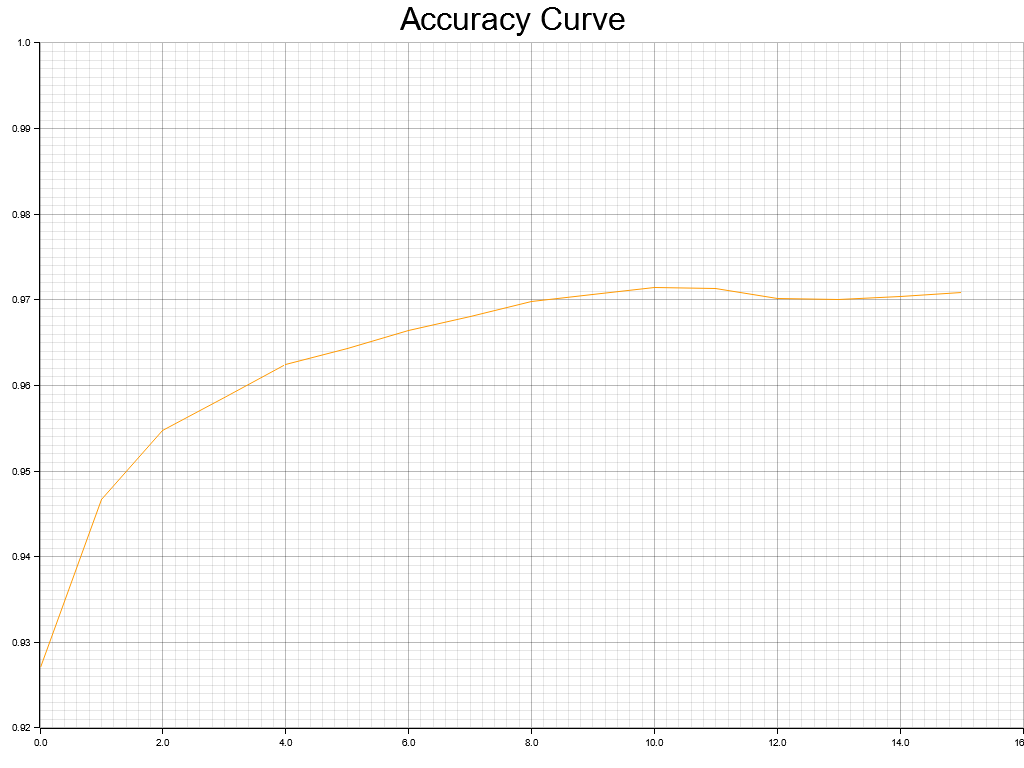
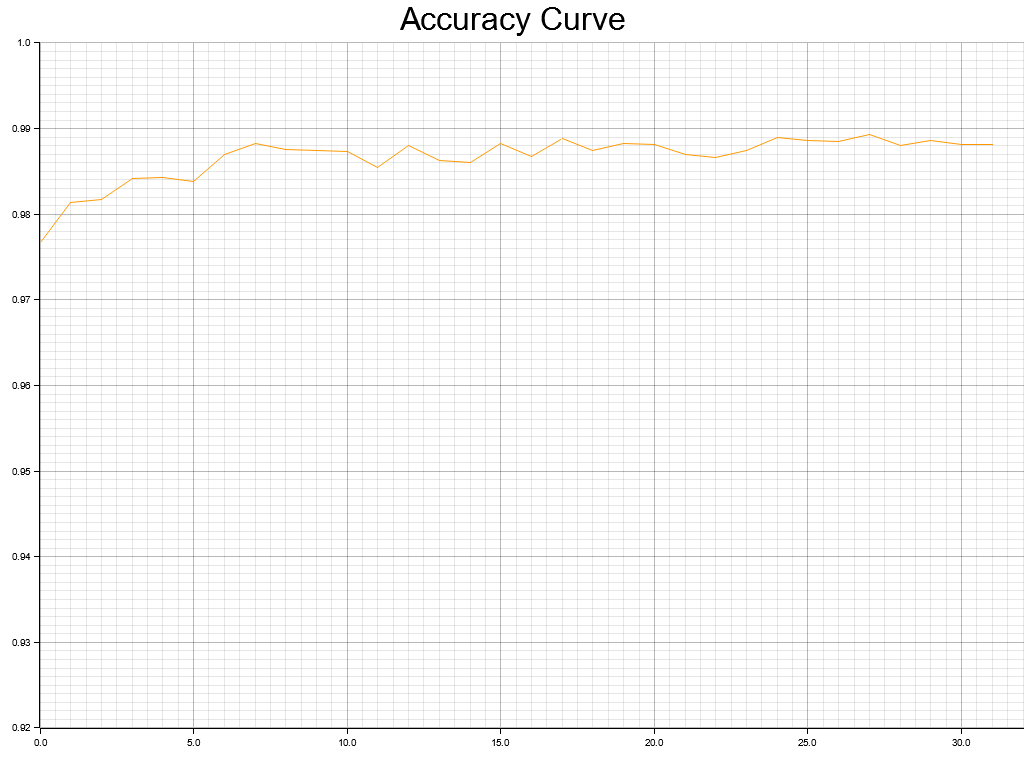
Implémentation des couches de convolution

diff --git a/src/layer.rs b/src/layer.rs
@@ -1,10 +1,6 @@
 use nalgebra::{DMatrix, DVector};
-use rand_distr::Normal;
 use rayon::prelude::*;
-
-const BETA_1: f32 = 0.9;
-const BETA_2: f32 = 0.999;
-const EPSILON: f32 = 10e-8;
+use crate::utils::*;
 
 pub trait Layer {
     fn forward_propagation(&mut self, input_batch: Vec<DVector<f32>>) -> Vec<DVector<f32>>;
@@ -25,7 +21,7 @@ pub struct Dense {
 impl Dense {
     pub fn new(input_size: usize, output_size: usize) -> Self {
         Dense {
-            weights: Self::he_init(input_size, output_size),
+            weights: he_init_dense(input_size, output_size),
             bias: DVector::<f32>::zeros(output_size),
 
             last_input_batch: vec![],
@@ -34,33 +30,6 @@ impl Dense {
             bias_first_moment: DVector::<f32>::zeros(output_size),
             bias_second_moment: DVector::<f32>::zeros(output_size),
         }
-    }
-
-    fn he_init(input_size: usize, output_size: usize) -> DMatrix<f32> {
-        let rng = &mut rand::thread_rng();
-        DMatrix::<f32>::from_distribution(
-            output_size, input_size,
-            &Normal::new(0.0, f32::sqrt(2.0 / input_size as f32)).unwrap(),
-            rng
-        )
-    }
-
-    fn adam_optimizer(&mut self, weights_gradient: DMatrix<f32>, bias_gradient: DVector<f32>, learning_rate: f32, iteration: i32) {
-        let weights_gradient_squared = weights_gradient.component_mul(&weights_gradient);
-        self.weight_first_moment = BETA_1 * self.weight_first_moment.clone() + (1.0 - BETA_1) * weights_gradient;
-        self.weight_second_moment = BETA_2 * self.weight_second_moment.clone() + (1.0 - BETA_2) * weights_gradient_squared;
-        let weight_corrected_first_moment = self.weight_first_moment.clone() / (1.0 - BETA_1.powi(iteration));
-        let weight_corrected_second_moment = self.weight_second_moment.clone() / (1.0 - BETA_2.powi(iteration));
-        let weight_denominator = weight_corrected_second_moment.map(|w| w.sqrt() + EPSILON);
-        self.weights -= learning_rate * weight_corrected_first_moment.component_div(&weight_denominator);
-
-        let bias_gradient_squared = bias_gradient.component_mul(&bias_gradient);
-        self.bias_first_moment = BETA_1 * self.bias_first_moment.clone() + (1.0 - BETA_1) * bias_gradient;
-        self.bias_second_moment = BETA_2 * self.bias_second_moment.clone() + (1.0 - BETA_2) * bias_gradient_squared;
-        let bias_corrected_first_moment = self.bias_first_moment.clone() / (1.0 - BETA_1.powi(iteration));
-        let bias_corrected_second_moment = self.bias_second_moment.clone() / (1.0 - BETA_2.powi(iteration));
-        let bias_denominator = bias_corrected_second_moment.map(|b| b.sqrt() + EPSILON);
-        self.bias -= learning_rate * bias_corrected_first_moment.component_div(&bias_denominator);
     }
 }
 
@@ -86,7 +55,211 @@ impl Layer for Dense {
         }).collect::<Vec<_>>().iter().sum::<DMatrix<f32>>() / m;
         let bias_gradient = factor_batch.iter().sum::<DVector<f32>>() / m;
 
-        self.adam_optimizer(weights_gradient, bias_gradient, learning_rate, iteration);
+        adam_optimizer_matrix(
+            &mut self.weights, weights_gradient, &mut self.weight_first_moment,
+            &mut self.weight_second_moment, learning_rate, iteration
+        );
+        adam_optimizer_vector(
+            &mut self.bias, bias_gradient, &mut self.bias_first_moment,
+            &mut self.bias_second_moment, learning_rate, iteration
+        );
+        back_factor_batch
+    }
+}
+
+pub struct Conv2D {
+    input_shape: (usize, usize, usize),
+    output_shape: (usize, usize, usize),
+    kernels: Vec<Vec<DMatrix<f32>>>,
+    bias: Vec<DMatrix<f32>>,
+
+    last_input_batch: Vec<Vec<DMatrix<f32>>>,
+    kernels_first_moment: Vec<Vec<DMatrix<f32>>>,
+    kernels_second_moment: Vec<Vec<DMatrix<f32>>>,
+    bias_first_moment: Vec<DMatrix<f32>>,
+    bias_second_moment: Vec<DMatrix<f32>>
+}
+
+impl Conv2D {
+    pub fn new(input_shape: (usize, usize, usize), kernels_shape: (usize, usize), output_features: usize) -> Self {
+        let mut kernels = vec![];
+        for _ in 0..output_features {
+            let mut kernels_weights = vec![];
+            for _ in 0..input_shape.0 {
+                kernels_weights.push(he_init_conv2d(kernels_shape.0, kernels_shape.1, input_shape.0));
+            }
+            kernels.push(kernels_weights);
+        }
+
+        let (n_rows, n_cols) = (input_shape.1 - kernels_shape.0 + 1, input_shape.2 - kernels_shape.1 + 1);
+        let bias = vec![DMatrix::<f32>::zeros(n_rows, n_cols); output_features];
+
+        Self {
+            input_shape,
+            output_shape: (output_features, n_rows, n_cols),
+            kernels,
+            bias,
+
+            last_input_batch: vec![],
+            kernels_first_moment: vec![vec![DMatrix::<f32>::zeros(kernels_shape.0, kernels_shape.1); input_shape.0]; output_features],
+            kernels_second_moment: vec![vec![DMatrix::<f32>::zeros(kernels_shape.0, kernels_shape.1); input_shape.0]; output_features],
+            bias_first_moment: vec![DMatrix::<f32>::zeros(n_rows, n_cols); output_features],
+            bias_second_moment: vec![DMatrix::<f32>::zeros(n_rows, n_cols); output_features]
+        }
+    }
+}
+
+impl Layer for Conv2D {
+    fn forward_propagation(&mut self, input_batch: Vec<DVector<f32>>) -> Vec<DVector<f32>> {
+        self.last_input_batch = input_batch.into_par_iter().map(|input| {
+            let length = self.input_shape.1 * self.input_shape.2;
+            (0..self.input_shape.0).map(|depth|
+                DMatrix::<f32>::from_column_slice(
+                    self.input_shape.1, self.input_shape.2,
+                    &input.as_slice()[(depth * length)..(depth * length + length)]
+                )
+            ).collect::<Vec<_>>()
+        }).collect();
+
+        let result_batch = self.last_input_batch.par_iter().map(|features| {
+            let (output_depth, n_rows, n_cols) = self.output_shape;
+            let mut result_data = vec![];
+            for depth in 0..output_depth {
+                let cross_correlation = features.iter().enumerate().map(|(k, feature)| {
+                    valid_cross_correlation(feature, &self.kernels[depth][k], n_rows, n_cols)
+                }).sum::<DMatrix<f32>>() + &self.bias[depth];
+                result_data.extend_from_slice(cross_correlation.as_slice());
+            }
+            DVector::<f32>::from(result_data)
+        }).collect();
+
+        result_batch
+    }
+
+    fn backward_propagation(&mut self, factor_batch: Vec<DVector<f32>>, learning_rate: f32, iteration: i32) -> Vec<DVector<f32>> {
+        let m = factor_batch.len() as f32;
+        let (output_depth, output_n_rows, output_n_cols) = self.output_shape;
+        let length = output_n_rows * output_n_cols;
+
+        let back_factor_batch = factor_batch.par_iter().map(|factor| {
+            let mut back_factor_data = vec![];
+            for j in 0..self.input_shape.0 {
+                let convolution = (0..self.kernels.len()).map(|i| {
+                    let factor_i = DMatrix::<f32>::from_column_slice(
+                        output_n_rows, output_n_cols,
+                        &factor.as_slice()[(i * length)..(i * length + length)]
+                    );
+                    full_convolution(&factor_i, &self.kernels[i][j], self.input_shape.1, self.input_shape.2)
+                }).sum::<DMatrix<f32>>();
+                back_factor_data.extend_from_slice(convolution.as_slice());
+            }
+            DVector::<f32>::from(back_factor_data)
+        }).collect();
+
+        for i in 0..output_depth {
+            for j in 0..self.input_shape.0 {
+                let kernel_gradient = factor_batch.par_iter().enumerate().map(|(k, factor)| {
+                    let factor_i = DMatrix::<f32>::from_column_slice(
+                        output_n_rows, output_n_cols,
+                        &factor.as_slice()[(i * length)..(i * length + length)]
+                    );
+                    valid_cross_correlation(&self.last_input_batch[k][j], &factor_i, self.kernels[i][j].shape().0, self.kernels[i][j].shape().1)
+                }).collect::<Vec<_>>().iter().sum::<DMatrix<f32>>() / m;
+                adam_optimizer_matrix(
+                    &mut self.kernels[i][j], kernel_gradient, &mut self.kernels_first_moment[i][j],
+                    &mut self.kernels_second_moment[i][j], learning_rate, iteration
+                );
+            }
+        }
+
+        for i in 0..output_depth {
+            let bias_gradient = factor_batch.iter().map(|factor| {
+                DMatrix::<f32>::from_column_slice(
+                    output_n_rows, output_n_cols,
+                    &factor.as_slice()[(i * length)..(i * length + length)]
+                )
+            }).sum::<DMatrix<f32>>() / m;
+            adam_optimizer_matrix(
+                &mut self.bias[i], bias_gradient, &mut self.bias_first_moment[i],
+                &mut self.bias_second_moment[i], learning_rate, iteration
+            );
+        }
+
+        back_factor_batch
+    }
+}
+
+pub struct MaxPooling2D {
+    input_shape: (usize, usize, usize),
+    output_shape: (usize, usize, usize),
+    pooling_window: (usize, usize),
+
+    pool_indices: Vec<Vec<(usize, usize)>>
+}
+
+impl MaxPooling2D {
+    pub fn new(input_shape: (usize, usize, usize), pooling_window: (usize, usize)) -> Self {
+        let output_n_rows = input_shape.1.div_ceil(pooling_window.0);
+        let output_n_cols = input_shape.2.div_ceil(pooling_window.1);
+        Self {
+            input_shape,
+            output_shape: (input_shape.0, output_n_rows, output_n_cols),
+            pooling_window,
+            pool_indices: vec![],
+        }
+    }
+}
+
+impl Layer for MaxPooling2D {
+    fn forward_propagation(&mut self, input_batch: Vec<DVector<f32>>) -> Vec<DVector<f32>> {
+        let output_length = self.output_shape.0 * self.output_shape.1 * self.output_shape.2;
+        let (result_batch, pool_indices): (Vec<_>, Vec<_>) = input_batch.par_iter().map(|input| {
+            let (result_data, result_indices): (Vec<f32>, Vec<(usize, usize)>) = (0..output_length).map(|n| {
+                let (depth, i, j) = index_to_coords(self.output_shape, n);
+                let window_size = (
+                    usize::min(self.pooling_window.0, self.input_shape.1 - i * self.pooling_window.0),
+                    usize::min(self.pooling_window.1, self.input_shape.2 - j * self.pooling_window.1)
+                );
+                let mut max = f32::NEG_INFINITY;
+                let mut pool_indices = (0, 0);
+                for k in 0..window_size.0 {
+                    let i_input = i * self.pooling_window.0 + k;
+                    for l in 0..window_size.1 {
+                        let j_input = j * self.pooling_window.1 + l;
+                        let index = coords_to_index(self.input_shape, depth, i_input, j_input);
+                        let value = *input.index(index);
+                        if value > max {
+                            max = value;
+                            pool_indices = (k, l);
+                        }
+                    }
+                }
+                (max, pool_indices)
+            }).unzip();
+
+            (DVector::<f32>::from(result_data), result_indices)
+        }).unzip();
+
+        self.pool_indices = pool_indices;
+        result_batch
+    }
+
+    fn backward_propagation(&mut self, factor_batch: Vec<DVector<f32>>, _learning_rate: f32, _iteration: i32) -> Vec<DVector<f32>> {
+        let input_length = self.input_shape.0 * self.input_shape.1 * self.input_shape.2;
+        let back_factor_batch = factor_batch.par_iter().enumerate().map(|(k, factor)| {
+            DVector::<f32>::from_fn(input_length, |n, _| {
+                let (depth, i, j) = index_to_coords(self.input_shape, n);
+                let i_output = i / self.pooling_window.0;
+                let j_output = j / self.pooling_window.1;
+                let index = coords_to_index(self.output_shape, depth, i_output, j_output);
+                if (i - i_output * self.pooling_window.0, j - j_output * self.pooling_window.1) == self.pool_indices[k][index] {
+                    factor[index]
+                }
+                else {
+                    0.0
+                }
+            })
+        }).collect();
         back_factor_batch
     }
 }

diff --git a/src/main.rs b/src/main.rs
@@ -1,9 +1,11 @@
 mod layer;
 mod network;
+mod utils;
+mod tests;
 
 use nalgebra::DVector;
 use mnist::*;
-use crate::layer::{Dense, LeakyReLU, SoftMax};
+use crate::layer::{Conv2D, Dense, LeakyReLU, MaxPooling2D, SoftMax};
 use crate::network::Network;
 
 /*
@@ -73,16 +75,20 @@ fn main() {
 
     let mut network = Network::new(
         vec![
-            Box::new(Dense::new(784, 100)),
+            Box::new(Conv2D::new((1, 28, 28), (3, 3), 8)),
             Box::new(LeakyReLU::new()),
-            Box::new(Dense::new(100, 100)),
+            Box::new(MaxPooling2D::new((8, 26, 26), (2, 2))),
+            Box::new(Conv2D::new((8, 13, 13), (3, 3), 16)),
             Box::new(LeakyReLU::new()),
-            Box::new(Dense::new(100, 10)),
+            Box::new(MaxPooling2D::new((16, 11, 11), (2, 2))),
+            Box::new(Dense::new(16 * 6 * 6, 80)),
+            Box::new(LeakyReLU::new()),
+            Box::new(Dense::new(80, 10)),
             Box::new(SoftMax::new())
         ]
     );
 
-    network.train(&train_inputs, &train_labels, &valid_inputs, &valid_labels, 512, 16);
+    network.train(&train_inputs, &train_labels, &valid_inputs, &valid_labels, 32, 32);
     let accuracy = network.test_accuracy(&test_inputs, &test_labels);
-    println!("Results : {}% success rate", accuracy * 100.0);
+    println!("Results : {:.2}% success rate", accuracy * 100.0);
 }
